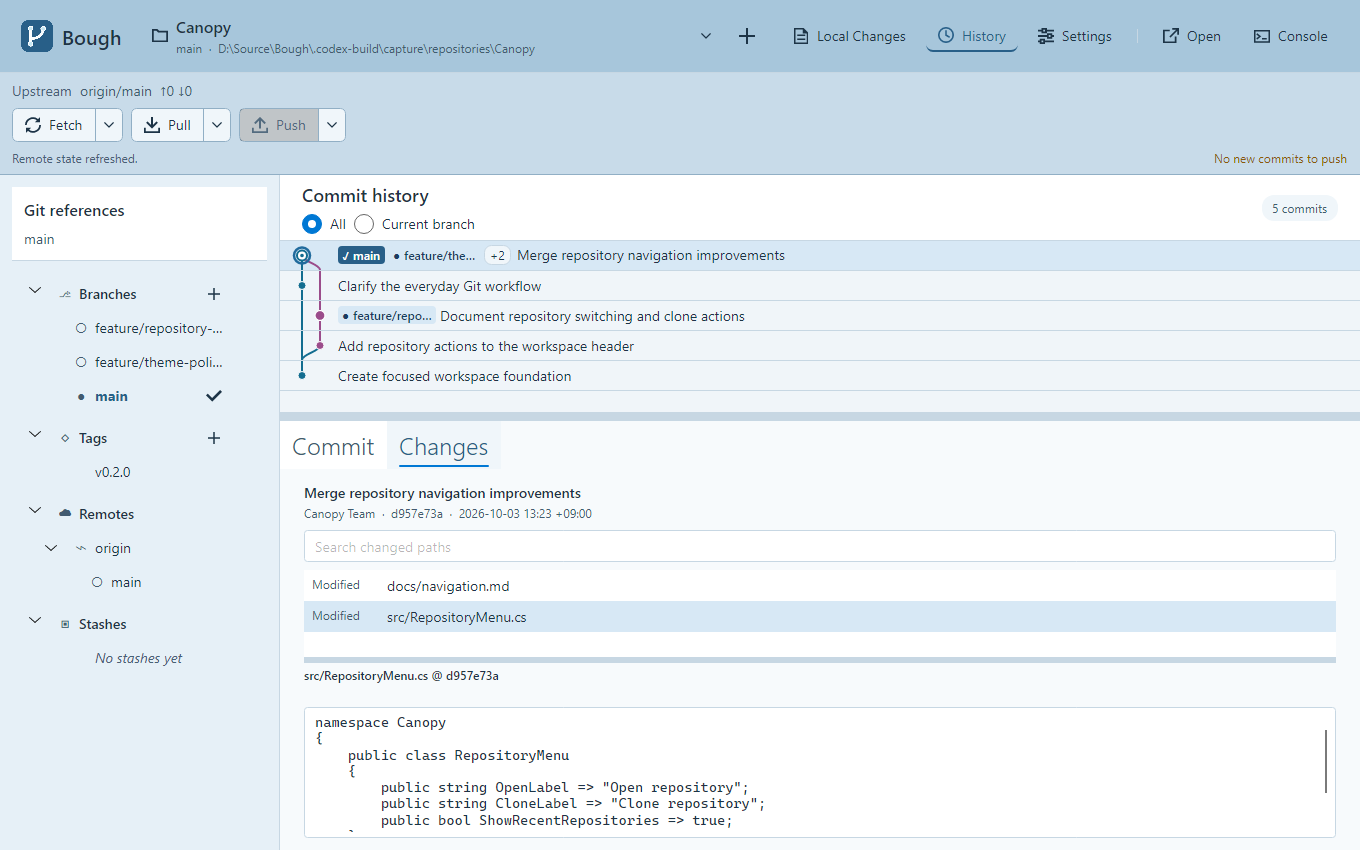
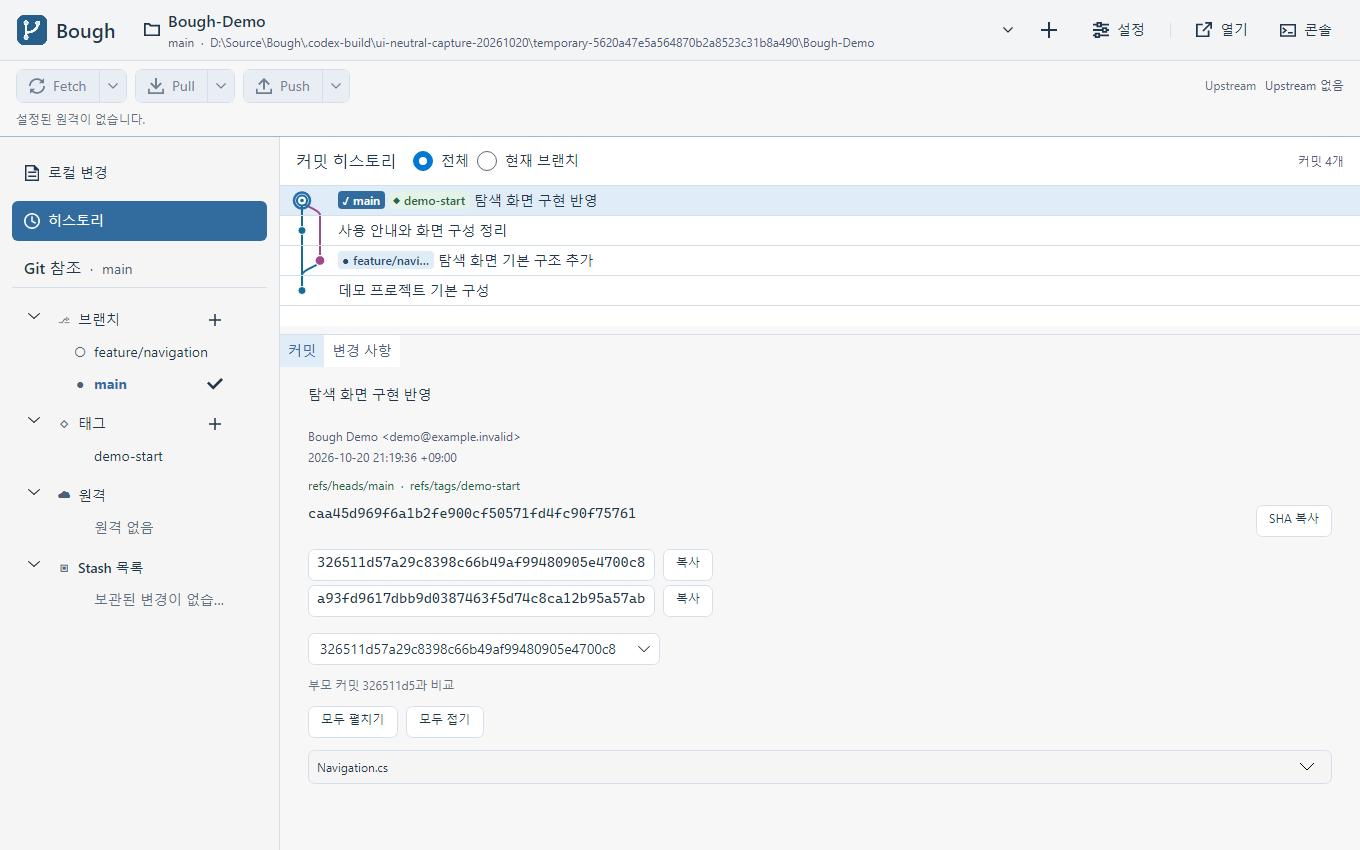
최신 UI 화면으로 한영 README 갱신

diff --git a/Docs/CurrentStatus.md b/Docs/CurrentStatus.md
@@ -57,13 +57,21 @@ Staged 목록도 Ctrl/Shift 다중 선택과 Ctrl+A를 지원하도록 소스를
 
 사용자가 배치 시안을 확인하고 실제 앱 적용을 승인했다. 작업자 3의 `MainWindow.axaml` 한 파일 변경을 반영해 기존 Local Changes·History 버튼을 왼쪽 사이드바 맨 위로 옮겼다. 각 행 높이는 40px이며 행 전체를 클릭한다. 선택된 행은 기존 Accent·AccentText 배경·전경으로 표시하고 16px 아이콘·라벨·활성·지역화·접근성·기존 전환 Command를 유지한다. 사이드바는 탐색·참조·하단 공통 상태의 Auto/*/Auto 배치다.
 
-HTML/PNG는 가상 데이터의 배치 시안이며 실제 앱 촬영이나 화면 전환 동작 검증이 아니다. 제품 변경의 빌드·테스트·앱 실행·UI 촬영·추가 검증은 수행하지 않았다. 이 배치 변경은 v1.0.2 단일 실행 파일에 포함해 게시했다. README의 기존 앱 이미지는 탐색 이동 전 화면이다.
+HTML/PNG는 가상 데이터의 배치 시안이며 실제 앱 촬영이나 화면 전환 동작 검증이 아니다. 제품 변경의 별도 빌드·테스트·UI 동작 검증은 수행하지 않았다. 이 배치 변경은 v1.0.2 단일 실행 파일에 포함해 게시했다. README의 히스토리·설정 이미지는 이후 최신 소스로 교체했으며, 나머지 기능 예시는 이전 화면이다.
 
 ## NuGet 참조 최신화
 
 2026-10-19 공식 NuGet 정식 버전을 기준으로 Dignus.Log를 2.0.0에서 2.0.1로 갱신했다. 해당 패키지의 종속성으로 실제 선택된 Dignus는 1.4.1이며, 단일 exe의 두 라이선스 Include·Condition도 선택된 1.4.1·2.0.1 경로로 맞췄다. Avalonia.Desktop과 Avalonia.Themes.Fluent는 최신 정식 12.1.4를 유지한다. 새 직접 참조·프레임워크·DI·기능 코드는 추가하거나 변경하지 않았다.
 
 작업자 3이 요청된 의존성 설치로 공식 NuGet 원본의 `dotnet restore Bough.App/Bough.App.csproj --source https://api.nuget.org/v3/index.json -p:NuGetAudit=false --verbosity minimal`을 1회 실행했고 종료 코드 0으로 완료했다. 빌드·테스트·앱 실행·호환성 검증은 수행하지 않았다. 이 갱신은 이후 요청된 v1.0.2 단일 실행 파일에 포함해 게시했다.
+
+## 최신 소스 촬영과 README 갱신
+
+사용자의 촬영 요청에 따라 작업자3이 중립 배경 소스 `3442593`의 격리 사본을 준비했다. 밝음·한국어·1360×850·96dpi의 실제 DI/Main에서 History와 Settings로 이동하고 RenderTargetBitmap으로 두 PNG를 저장했다. 원격 없는 자기 데모 저장소를 사용했으며 원격 버튼의 비활성 상태도 실제 바인딩 그대로다.
+
+촬영용 생성 1회와 격리 앱 실행 1회가 각각 종료 코드 0으로 끝났다. Main.Close로 정상 종료했고 자기 임시 소스·프로필·실행물·데모만 정리했다. 제품 소스·사용자 앱·설정·등록 목록은 변경하지 않았으며 HTTP·원격·업데이트·브라우저·설치 입력은 실행하지 않았다.
+
+총괄은 Docs/images/history.png를 교체하고 settings.png를 추가해 한·영 README를 갱신했다. 최신 한국어 사진과 이전 영어 기능 예시, 현재 배포 v1.0.2와 개발 소스의 표시 차이를 구분했다. 별도 테스트·UI 행동 검증·정적 분석·변경 후 검사·리소스 대조는 수행하지 않았으며 푸시·릴리스 제작·게시는 보류한다.
 
 ## 중립 배경 팔레트 정리 — v1.0.2 이후 소스
 

diff --git a/README.en.md b/README.en.md
@@ -16,6 +16,8 @@ Run the downloaded single `.exe` file. No archive extraction or separate .NET in
 
 ## Preview
 
+The History and Settings screenshots show the latest development source with neutral backgrounds and sidebar navigation. Some visual details differ from the published v1.0.2 release.
+
 ### Conflict resolution
 
 ![Bough conflict window showing both changes, individual and batch choices, and the final file preview](Docs/images/conflict.png)
@@ -24,9 +26,15 @@ This screen shows a reproduced text merge conflict. Compare both sources, resolv
 
 ### History
 
-![Bough History showing the commit graph, changed files, and code preview](Docs/images/history.png)
+![Latest Bough History showing sidebar navigation, the commit graph, and selected merge commit details](Docs/images/history.png)
 
-See the branch graph alongside local branch, remote branch, and tag badges, then inspect the selected merge commit and its changed files.
+Switch to History from the left sidebar and see the branch graph, reference badges, and selected merge commit details together.
+
+### Settings and application updates
+
+![Latest Bough Settings showing update checks, language, the light theme, and the default Pull strategy](Docs/images/settings.png)
+
+Configure application update checks, language, appearance, and the default Pull strategy in one screen. Remote buttons are disabled because this demo has no configured remote. No update check or download was started during capture.
 
 ### File history
 
@@ -40,7 +48,7 @@ Right-click a changed file and choose History to open a dedicated window with it
 
 Browse staged changes and working files separately, and read diffs with previous and current line numbers. Prepare a commit message in the area below the preview.
 
-All screenshots show actual application content using demo repositories with the light theme and English UI. Operating system title bars are omitted.
+All screenshots show actual application content using demo repositories, without operating system title bars. History and Settings show the latest source with the light theme and Korean UI. Conflict resolution, File history, and Local changes use earlier English UI screenshots as feature examples; their colors and layout may differ from the current source.
 
 ## Why Bough?
 

diff --git a/README.md b/README.md
@@ -16,6 +16,8 @@
 
 ## 화면 미리보기
 
+히스토리·설정 이미지는 중립 배경과 사이드바 탐색을 반영한 최신 개발 소스 화면입니다. 현재 배포된 v1.0.2와 일부 표시가 다릅니다.
+
 ### 충돌 해결
 
 ![Bough 충돌 해결 창에서 현재 변경과 들어오는 변경, 개별·일괄 선택 버튼, 최종 파일 미리보기](Docs/images/conflict.png)
@@ -24,9 +26,15 @@
 
 ### 히스토리
 
-![Bough History 화면의 커밋 그래프, 변경 파일 목록과 코드 미리보기](Docs/images/history.png)
+![최신 Bough History의 사이드바 탐색, 커밋 그래프와 선택한 병합 커밋 상세](Docs/images/history.png)
 
-브랜치 그래프와 로컬·원격 브랜치 및 태그 배지를 함께 보고, 선택한 병합 커밋의 상세 내용과 변경 파일을 살펴볼 수 있습니다.
+왼쪽 사이드바에서 History로 전환하고 브랜치 그래프·참조 배지와 선택한 병합 커밋의 상세 내용을 함께 볼 수 있습니다.
+
+### 설정과 앱 업데이트
+
+![최신 Bough 설정의 앱 업데이트 확인, 언어, 밝은 테마와 기본 Pull 방식](Docs/images/settings.png)
+
+앱 업데이트 확인·언어·화면 모양·기본 Pull 방식을 한 화면에서 설정합니다. 원격을 등록하지 않은 데모여서 상단 원격 버튼은 비활성 상태이며, 촬영 중 업데이트 조회·다운로드는 실행하지 않았습니다.
 
 ### 파일 히스토리
 
@@ -40,7 +48,7 @@
 
 스테이징된 변경과 작업 파일을 구분하고 이전·현재 줄 번호가 있는 diff를 읽을 수 있습니다. 하단 커밋 영역에서 메시지를 작성하고 커밋을 준비합니다.
 
-모든 화면은 밝은 테마·영어 UI의 데모 저장소를 사용한 실제 앱 콘텐츠입니다. 운영체제 제목 표시줄은 포함하지 않았습니다.
+모든 이미지는 데모 저장소를 사용한 실제 앱 콘텐츠이며 운영체제 제목 표시줄은 포함하지 않았습니다. 히스토리·설정은 최신 소스의 밝은 테마·한국어 UI입니다. 충돌 해결·파일 히스토리·로컬 변경 이미지는 이전 영어 UI의 기능 예시로, 현재 소스와 색상·배치가 다를 수 있습니다.
 
 ## 왜 Bough인가요?
 
